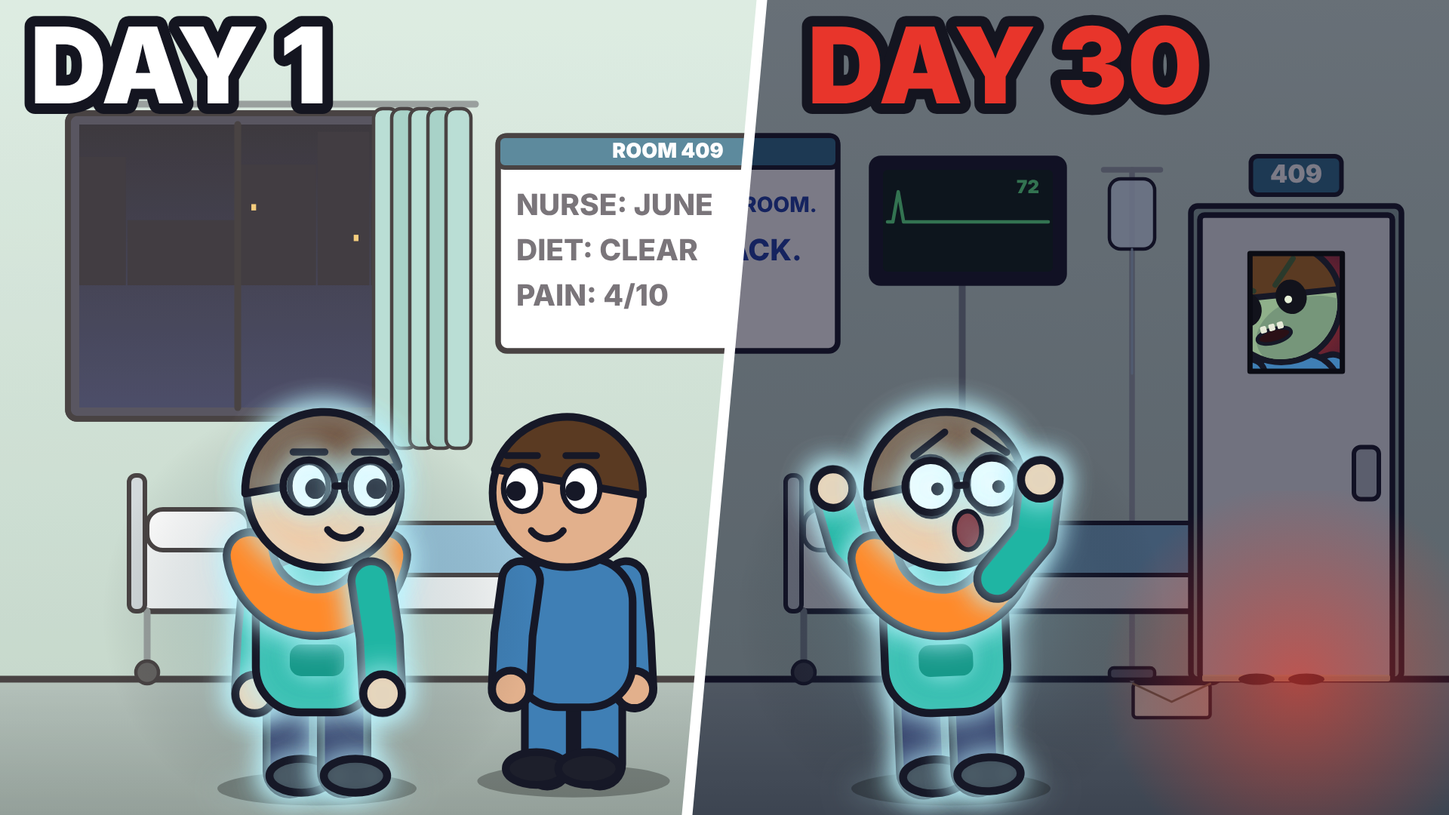
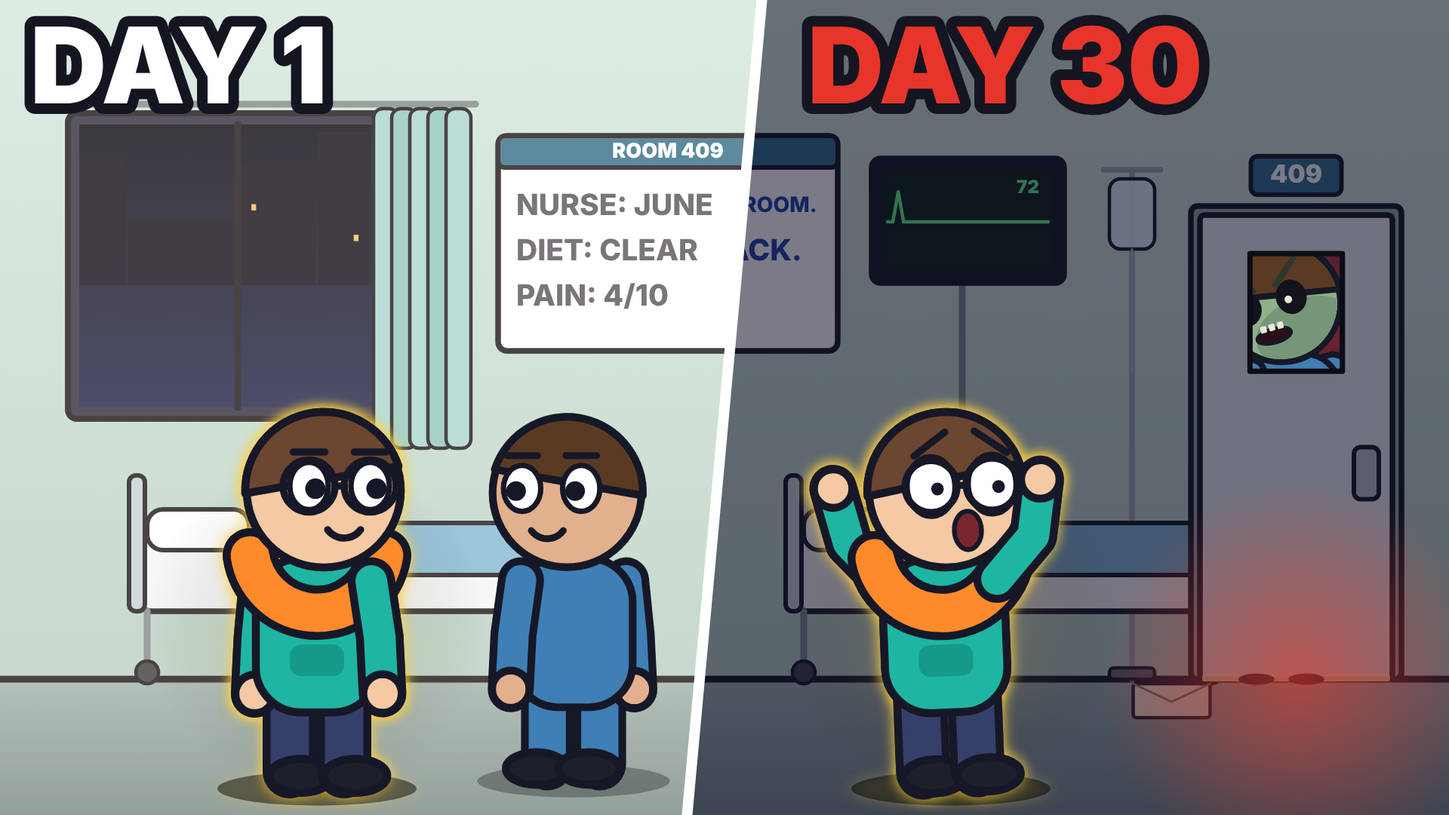
Hospital: faster scene changes, new locations, subtle yellow glow
Claude-Session: https://claude.ai/code/session_01A4fpXdABR4FHfhcdeu9ZkX

Changed region(s): [[0.5312, 0.4583, 0.75, 1.0], [0.125, 0.4583, 0.3125, 1.0]]

diff --git a/film9_src/ext9.js b/film9_src/ext9.js
@@ -35,16 +35,15 @@ BG.box = function (sh, t, lt) {
 LOOK.soldier = { skin: "#9a6a4a", top: "#4d5a3a", bot: "#3a4230", hair: "#1a1a1a", hs: "buzz" };
 LOOK.june = { skin: "#e2b08c", top: "#3f7fb5", bot: "#3f7fb5", hair: "#5a3a22", hs: "short" };
 LOOK.pilot = { skin: "#c08a64", top: "#4d5a3a", bot: "#3a4230", hair: "#1a1a1a", hs: "buzz" };
-// ---- hero glow ----
+// ---- hero glow: thin warm rim + faint halo ----
 (function () {
   var _ch = ch;
   ch = function (o) {
     if (o && o.k === "eli" && !o.noglow) {
       var s = o.s || 100;
-      ctx.save();
-      glow(o.x, o.y - s * 0.75, s * 0.95, "rgba(150,230,255,.55)", .55 + .12 * Math.sin(TT * 3));
-      ctx.shadowColor = "rgba(190,245,255,.95)"; ctx.shadowBlur = Math.max(10, s * 0.13);
-      _ch(o); ctx.restore(); return;
+      glow(o.x, o.y - s * 0.7, s * 0.75, "rgba(255,214,90,.22)", 1);
+      ctx.save(); ctx.shadowColor = "rgba(255,210,70,.95)"; ctx.shadowBlur = Math.max(6, s * 0.06); _ch(o); ctx.restore();
+      return _ch(o);
     }
     return _ch(o);
   };
@@ -150,4 +149,47 @@ BG.hroof = function (sh, t, lt) {
     tx("RESCUE", hx - 20, hy + 6, 22, "#c0392b");
   }
   return r;
+};
+
+BG.supply = function (sh, t, lt) {
+  var o = sh.o;
+  gr(0, 0, W, 600, "#c9d6d2", "#a9bab5"); gr(0, 600, W, 120, "#8d9c9a", "#66767a"); ln([0, 600, W, 600], 6, OUT);
+  rr(560, 20, 160, 16, 6, "#f8fbff", OUT, 3); glow(640, 60, 380, "rgba(255,255,230,.35)", o.dark ? .2 : 1);
+  for (var r = 0; r < 4; r++) { ln([40, 150 + r * 110, 420, 150 + r * 110], 8, "#7d8a90");
+    for (var b = 0; b < 4; b++) rr(56 + b * 90, 86 + r * 110, 74, 60, 4, ["#e8ddc4", "#cfe3f0", "#f2f2f2", "#d9c8a8"][(r + b) % 4], OUT, 3); }
+  rr(560, 230, 330, 370, 14, "#c4ccd2", OUT, 6); rr(560, 230, 330, 70, 10, "#a9b3ba", OUT, 5);
+  tx("ICE", 725, 266, 34, "#2f6f8f"); rr(600, 340, 250, 150, 10, "#8f9aa2", OUT, 5);
+  for (var i = 0; i < 14; i++) rr(612 + (i % 7) * 33, 420 + Math.floor(i / 7) * 32, 28, 26, 6, "rgba(220,245,255,.95)", "#7fb0c8", 2);
+  rr(980, 470, 120, 130, 10, "#e8c14a", OUT, 5); ln([980, 500, 1100, 500], 4, OUT);
+  if (o.drip) for (var d = 0; d < 3; d++) { var yy = 490 + ((t * 120 + d * 40) % 110); el(700 + d * 40, yy, 5, 8, "rgba(140,200,240,.9)"); }
+  return { gy: 686, s: 178 };
+};
+BG.stair = function (sh, t, lt) {
+  var o = sh.o;
+  gr(0, 0, W, H, "#b9c6c2", "#8e9c99");
+  for (var i = 0; i < 9; i++) { var x = 200 + i * 100, y = 640 - i * 62; rr(x, y, 120, 70, 0, "#9aa8a5", OUT, 4); }
+  ln([180, 560, 1080, 30], 8, "#d8b45a"); for (var i = 0; i < 9; i++) ln([240 + i * 100, 560 - i * 62 - 40, 240 + i * 100, 640 - i * 62], 4, "#d8b45a");
+  rr(40, 200, 160, 400, 6, "#e9eef0", OUT, 5); rr(80, 240, 80, 100, 4, "#1d2638", OUT, 4);
+  rr(60, 120, 120, 50, 6, "#2f6f8f", OUT, 4); tx("STAIR B", 120, 145, 22, "#ffffff");
+  rr(1120, 80, 110, 40, 6, "#1b7a3a", OUT, 3); tx("EXIT", 1175, 100, 22, "#ffffff"); glow(1175, 100, 160, "rgba(80,255,120,.3)", 1);
+  if (o.roofup) { glow(1100, 40, 300, "rgba(255,200,120,.5)", 1); }
+  return { gy: 686, s: 168 };
+};
+BG.dwin = function (sh, t, lt) {
+  var o = sh.o;
+  gr(0, 0, W, H, "#e3e8ea", "#c9d0d4");
+  for (var i = 0; i < 6; i++) ln([0, 80 + i * 120, W, 80 + i * 120], 2, "rgba(0,0,0,.05)");
+  var x = 400, y = 90, w = 480, h = 520;
+  rr(x - 22, y - 22, w + 44, h + 44, 10, "#b9c2c8", OUT, 8);
+  ctx.save(); ctx.beginPath(); ctx.rect(x, y, w, h); ctx.clip();
+  gr(x, y, w, h, o.dark ? "#26304a" : "#cfe4da", o.dark ? "#141a2c" : "#a9c3b8");
+  ln([x, y + h * 0.62, x + w, y + h * 0.62], 6, "#7fa3a0");
+  if (o.cart) { rr(x + 40, y + h * 0.55, 160, 200, 8, "#3f7fb5", OUT, 5); for (var d = 0; d < 3; d++) rr(x + 52, y + h * 0.58 + d * 40, 136, 30, 4, ["#e85a4f", "#f2c21a", "#5ad17a"][d], OUT, 3); }
+  if (o.who) ch({ k: o.who, x: x + w * 0.62, y: y + h + 330, s: 520, f: -1, noglow: 1, arm: o.knock ? "up" : null });
+  if (o.dark) { ctx.fillStyle = "rgba(8,10,30,.35)"; ctx.fillRect(x, y, w, h); }
+  ctx.fillStyle = "rgba(255,255,255,.08)"; ctx.beginPath(); ctx.moveTo(x, y); ctx.lineTo(x + 140, y); ctx.lineTo(x, y + 200); ctx.fill();
+  ctx.restore();
+  ln([x + w / 2, y, x + w / 2, y + h], 4, "rgba(40,40,60,.35)");
+  rr(x - 22, y - 22, w + 44, h + 44, 10, null, OUT, 8);
+  return { gy: 2000, s: 100 };
 };

diff --git a/film9_src/shots.py b/film9_src/shots.py
@@ -1,91 +1,112 @@
 S = []
 def s(tag, sp, bg, mood, text, **o):
-    o.setdefault('pre', .12)
+    o.setdefault('pre', .1)
     S.append(dict(day=tag, sp=sp, bg=bg, pal=mood, text=text, o=o))
 def nb(text, lines, **o):
-    s(o.pop('tag', ''), 'ELI', 'box', o.pop('mood', 'night'), text, lines=lines, **o)
+    s(o.pop('tag', ''), 'ELI', 'box', o.pop('mood', 'night'), text, lines=lines, head=o.pop('head', 'NURSE J'), **o)
+BRD = ['DO NOT LEAVE YOUR ROOM.','I WILL COME BACK FOR YOU.','— NURSE J']
 
 # ================= HOOK =================
 T = 'DAY 1 · 3:10 AM'
-s(T,'ELI','whall','night',"Hospital doors do not lock. Ever. If there is a fire, nobody can be trapped inside. Tonight, that is the problem.", a=['eli@640'], dark=.7, cam='in', gap=.15)
-s(T,'ELI','ward','night',"You wake up at three in the morning, in room four oh nine. Stitches in your stomach. A needle in your arm. And the call button does nothing.", a=['eli@620'], dark=.55, sfx=['ecg'], gap=.15)
-s(T,'ELI','whall','night',"Out in the hallway, somebody is pushing a cart. Squeak. Squeak.", dark=.7, cart=-100, cartv=160, sfx=['squeak'], gap=.15)
-s(T,'ELI','ward','night',"The squeak stops right outside your door. Under the door, two feet in white hospital shoes. They do not move. They do not knock. They just stand there.", a=['eli@620!'], dark=.55, feet=2, cam='in', gap=.15)
-s(T,'ELI','ward','night',"Then you notice the whiteboard by your bed. Somebody wrote on it while you were asleep.", a=['eli@620!'], dark=.4, board=['DO NOT LEAVE YOUR ROOM.','I WILL COME BACK FOR YOU.','— NURSE J'], gap=.15)
-s(T,'ELI','ward','night',"You will not leave this room for thirty days.", a=['eli@620'], dark=.55, board=['DO NOT LEAVE YOUR ROOM.','I WILL COME BACK FOR YOU.','— NURSE J'], cam='in', gap=.3)
+s(T,'ELI','whall','night',"Hospital doors do not lock. Ever.", a=['eli@640'], dark=.7, cam='in', gap=.1)
+s(T,'ELI','stair','night',"If there is a fire, nobody can be trapped inside. Tonight, that is the problem.", dark=.5, gap=.15)
+s(T,'ELI','ward','night',"You wake up at three in the morning, in room four oh nine. Stitches in your stomach.", a=['eli@620'], dark=.55, sfx=['ecg'], gap=.1)
+s(T,'ELI','winst','night',"Outside, the city is dark. And the street is full of people who are not moving right.", n=60, sfx=['moans'], gap=.1)
+s(T,'ELI','whall','night',"Out in the hallway, somebody is pushing a cart. Squeak. Squeak.", dark=.7, cart=-100, cartv=160, sfx=['squeak'], gap=.1)
+s(T,'ELI','ward','night',"The squeak stops outside your door. Under it, two feet in white shoes. They do not knock.", a=['eli@620!'], dark=.55, feet=2, cam='in', gap=.1)
+s(T,'ELI','dwin','night',"Through the little window, you can only see the empty hall. And the cart.", dark=1, cart=1, gap=.1)
+s(T,'ELI','ward','night',"Then you notice the whiteboard. Somebody wrote on it while you were asleep.", a=['eli@620!'], dark=.4, board=BRD, gap=.1)
+s(T,'ELI','box','night',"You will not leave this room for thirty days.", lines=['30 DAYS.','ROOM 409.'], head='MERCY GENERAL', cam='in', gap=.25)
 
 # ================= PROBLEM 1: THE DOOR =================
 T = 'DAY 1 · THE DOOR'
-s(T,'ELI','ward','night',"First problem, the door. There is no lock. Just a handle, and a door that swings in.", a=['eli@860'], dark=.5)
-s(T,'ELI','ward','night',"But hospital beds have brakes. Step on the pedal, and a four hundred pound bed will not roll an inch. You push it against the door, and lock every wheel.", a=['eli@300>>760'], dark=.5, bedx=760, sfx=['steps','slam'])
-nb("Hospital rule one. The brakes stay on.", ['RULE 1:','THE BRAKES STAY ON.'], tag=T)
+s(T,'ELI','dwin','night',"First problem, the door. There is no lock. Just a handle.", dark=1)
+s(T,'ELI','ward','night',"But hospital beds have brakes. Four hundred pounds that will not roll an inch.", a=['eli@300>>760'], dark=.5, bedx=760, sfx=['steps'])
+s(T,'ELI','ward','night',"You push the bed against the door. You lock every wheel.", a=['eli@560'], dark=.5, bedx=860, sfx=['slam'], cam='in')
+nb("Hospital rule one. The brakes stay on.", ['RULE 1:','THE BRAKES STAY ON.'], tag=T, head='ROOM 409')
 
 # ================= DAY 2 =================
 T = 'DAY 2 · 6:00 AM'
-s(T,'ELI','ward','dusk',"At six A M, the squeak comes back. The feet stop at your door. And something slides underneath it.", a=['eli@560!'], bedx=760, feet=2, envelope=1, sfx=['squeak'])
-nb("An envelope. On the front, two words.", ['DAY 2'], tag=T, head='NURSE J', mood='dusk')
-nb("Inside, a packet of crackers. And a note.", ['EAT SLOWLY.','DRINK FROM THE SINK','WHILE IT STILL RUNS.','— J'], tag=T, head='NURSE J', mood='dusk')
-s(T,'ELI','ward','dusk',"When you look under the door again, the feet are gone. The squeak goes all the way down the hall.", a=['eli@560'], bedx=760, sfx=['squeak'], cam='in', gap=.3)
+s(T,'ELI','whall','dusk',"At six A M, the squeak comes back.", cart=-60, cartv=140, sfx=['squeak'])
+s(T,'ELI','ward','dusk',"The feet stop at your door. And something slides underneath it.", a=['eli@560!'], bedx=760, feet=2, envelope=1)
+nb("An envelope. On the front, two words.", ['DAY 2'], tag=T, mood='dusk')
+nb("Inside, a packet of crackers, and a note.", ['EAT SLOWLY.','DRINK FROM THE SINK','WHILE IT STILL RUNS.','— J'], tag=T, mood='dusk')
+s(T,'ELI','whall','dusk',"When you look again, the feet are gone. The squeak goes all the way down the hall.", cart=500, cartv=160, sfx=['squeak'], gap=.25)
+
+# ================= DAY 6 =================
+s('DAY 6','ELI','ward','day',"You count the days on the whiteboard. Little lines, under her message.", a=['eli@620'], bedx=760, board=['DO NOT LEAVE YOUR ROOM.','— NURSE J','|||| |'])
+s('DAY 6','ELI','winst','day',"Every day, the street below gets a little more crowded.", n=90, sfx=['moans'])
+s('DAY 6','ELI','ward','night',"At night, you talk to the heart monitor. It is the only thing in here with a pulse besides you.", a=['eli@620'], bedx=760, dark=.5, sfx=['ecg'], cam='in', gap=.25)
 
 # ================= PROBLEM 2: WATER =================
 T = 'DAY 4 · WATER'
-s(T,'ELI','ward','night',"Second problem, water. On day four, the sink coughs, and stops.", a=['eli@560'], bedx=760, dark=.5, sfx=['drip'])
-s('DAY 5 · 6:00 AM','ELI','ward','dusk',"Six A M. The squeak. The envelope.", a=['eli@560'], bedx=760, feet=2, envelope=1, sfx=['squeak'])
-nb("Ice machine. Room four twelve. Ice is water.", ['DAY 5','ICE MACHINE. ROOM 412.','ICE IS WATER.','— J'], tag='DAY 5', head='NURSE J', mood='dusk')
-s('DAY 5 · 12:00 PM','ELI','whall','day',"Room four twelve is a supply room, three doors down. Inside, an ice machine. Two hundred pounds of ice, melting slowly in the dark. Enough water for weeks.", a=['eli@200>>900'], nums=['409','410','411','412'], sfx=['steps'])
-nb("Hospital rule two. Ice is water.", ['RULE 2:','ICE IS WATER.'], tag='DAY 5')
+s('DAY 8 · WATER','ELI','ward','night',"Second problem, water. On day eight, the sink coughs, and stops.", a=['eli@560'], bedx=760, dark=.5, sfx=['drip'])
+nb("Six A M. The squeak. The envelope.", ['DAY 8','ICE MACHINE. ROOM 412.','ICE IS WATER.','— J'], tag='DAY 8', mood='dusk')
+s('DAY 8 · 12:00 PM','ELI','whall','day',"Room four twelve is three doors down. You go at noon, when the hall is quiet.", a=['eli@200>>900'], nums=['409','410','411','412'], sfx=['steps'])
+s('DAY 8 · 12:01 PM','ELI','supply','day',"Inside, an ice machine. Two hundred pounds of ice, melting slowly in the dark.", a=['eli@360'], drip=1)
+s('DAY 8 · 12:02 PM','ELI','supply','day',"Enough water for weeks. You fill two buckets, and run.", a=['eli@400>>1100'], drip=1, sfx=['steps'], cam='in')
+nb("Hospital rule two. Ice is water.", ['RULE 2:','ICE IS WATER.'], tag='DAY 8', head='ROOM 409')
 
-s('DAY 6','ELI','ward','day',"You start counting days on the whiteboard. Little lines, under her message. Ice in the morning. Crackers at noon. Envelope at six. A whole life, in one room.", a=['eli@620'], bedx=760, board=['DO NOT LEAVE YOUR ROOM.','— NURSE J','|||| |'])
-s('DAY 6','ELI','ward','night',"At night, you talk to the heart monitor. It is the only thing in the room with a pulse besides you.", a=['eli@620'], bedx=760, dark=.5, sfx=['ecg'], cam='in', gap=.3)
 # ================= PROBLEM 3: THE STITCHES =================
 T = 'DAY 9 · THE STITCHES'
-s(T,'ELI','ward','day',"Third problem. On day nine, your stitches turn red. Hot. Your whole body aches.", a=['eli@560!'], bedx=760, sfx=['ecg'])
-nb("The next envelope already knows.", ['DAY 9','RED STITCHES?','NURSES STATION, TOP DRAWER.','FOLLOW THE LABEL.','— J'], tag=T, head='NURSE J', mood='day')
-s(T,'ELI','ward','day',"You stare at it for a long time. How did she know?", a=['eli@560'], bedx=760, cam='in')
-s('DAY 9 · 12:00 PM','ELI','nstation','day',"The nurses station is at the end of the hall. You go at noon, when the hall is quiet. Top drawer. A bottle of antibiotics, with your name already on the label.", a=['eli@760'], drawer=1)
-s('DAY 9 · 12:01 PM','ELI','nstation','day',"Your name. In her handwriting.", a=['eli@760!'], drawer=1, cam='in', gap=.3)
+s(T,'ELI','ward','day',"Third problem. On day nine, your stitches turn red. Hot. Everything aches.", a=['eli@560!'], bedx=760, sfx=['ecg'])
+nb("The next envelope already knows.", ['DAY 9','RED STITCHES?','NURSES STATION, TOP DRAWER.','FOLLOW THE LABEL.'], tag=T, mood='day')
+s('DAY 9 · 12:00 PM','ELI','whall','day',"The nurses station is at the end of the hall. Every step pulls at your stitches.", a=['eli@200>>800'], nums=['405','406','407','408'], sfx=['steps'])
+s('DAY 9 · 12:01 PM','ELI','nstation','day',"Top drawer. A bottle of antibiotics, with your name already on the label.", a=['eli@760'], drawer=1)
+s('DAY 9 · 12:01 PM','ELI','nstation','day',"Your name. In her handwriting.", a=['eli@760!'], drawer=1, cam='in', gap=.25)
 s('DAY 12','ELI','ward','day',"Three days later, the redness is gone.", a=['eli@560'], bedx=760)
 
-# ================= THE NIGHT THE POWER CAME BACK =================
+# ================= THE POWER =================
 s('DAY 13 · 2:00 AM','ELI','ward','night',"On day thirteen, at two in the morning, the power comes back. For ten seconds.", a=['eli@560!'], bedx=760, dark=.2, sfx=['alarm','ecg'], shake=1)
-s('DAY 13 · 2:00 AM','ELI','whall','night',"Every call light. Every heart monitor. Every alarm on the fourth floor, screaming at once. Then darkness again.", z=8, zm=40, zr=[0,900], dark=.3, sfx=['alarm','moans'], shake=1)
-s('DAY 13 · 2:01 AM','ELI','ward','night',"And then they are at your door. Not one. Dozens. Pushing.", a=['eli@560!'], bedx=760, dark=.6, feet=6, sfx=['slam','growl','knock'], shake=1)
-s('DAY 13 · 2:02 AM','ELI','ward','night',"The door bends. The bed shakes. But the wheels do not move one inch. Rule one. The brakes stay on.", a=['eli@560!'], bedx=760, dark=.6, feet=6, sfx=['slam'], shake=1, cam='in')
-s('DAY 13 · 6:00 AM','ELI','ward','dusk',"By morning, they drift away. At six, the squeak comes back, like nothing happened.", a=['eli@560'], bedx=760, feet=2, envelope=1, sfx=['squeak'], gap=.3)
-# ================= THE CART =================
-T = 'DAY 16 · 6:00 AM'
-s(T,'ELI','ward','dusk',"Every morning at six, the squeak. Every morning, an envelope. Day fourteen. Day fifteen. Day sixteen.", a=['eli@560'], bedx=760, feet=2, envelope=1, sfx=['squeak'])
-nb("Then one that scares you.", ['DAY 16',"DON'T OPEN THE DOOR",'WHEN THE CART STOPS.','NOT EVEN FOR ME.','— J'], tag=T, head='NURSE J', mood='dusk')
-s(T,'ELI','ward','dusk',"You start to wonder why she never knocks. Why she never says your name.", a=['eli@560'], bedx=760, cam='in')
-s('DAY 17 · 5:59 AM','ELI','whall','dusk',"On day seventeen, you are awake at six. You look through the little window in your door.", dark=.4, cart=380)
-s('DAY 17 · 6:00 AM','ELI','whall','dusk',"A nurse in blue scrubs. Gray skin. Hair in a bun. Pushing a medicine cart, one door at a time, the way she has done every morning for twenty years.", a=['zjune@560'], dark=.4, cart=380, cartv=20, sfx=['squeak','moans'], cam='in')
-s('DAY 17 · 6:01 AM','ELI','ward','dusk',"She stops at your door. She reaches into the cart. And she slides an envelope underneath.", a=['eli@560!'], bedx=760, feet=2, envelope=1)
-s('DAY 17 · 6:01 AM','ELI','ward','dusk',"She does not know why she does it. She just does.", a=['eli@560!'], bedx=760, cam='in', gap=.4)
+s('DAY 13 · 2:00 AM','ELI','nstation','night',"Every call light. Every monitor. Every alarm on the floor, screaming at once.", dark=.2, sfx=['alarm'], shake=1)
+s('DAY 13 · 2:00 AM','ELI','winst','night',"Down in the street, a thousand heads turn toward the hospital.", n=110, turn=1, beam=1, sfx=['moans'], cam='in')
+s('DAY 13 · 2:01 AM','ELI','whall','night',"Then they are at your door. Not one. Dozens.", z=8, zm=40, zr=[0,900], dark=.4, sfx=['growl'], shake=1)
+s('DAY 13 · 2:01 AM','ELI','ward','night',"The door bends. The bed shakes. The wheels do not move.", a=['eli@560!'], bedx=860, dark=.6, feet=6, sfx=['slam','knock'], shake=1)
+s('DAY 13 · 2:02 AM','ELI','box','night',"Rule one. The brakes stay on.", lines=['THE BRAKES','STAY ON.'], head='ROOM 409', gap=.25)
 
-s('DAY 19 · 4:00 PM','ELI','ward','day',"On day nineteen, a helicopter flies over the city. Low and loud. You bang on the window until your hands hurt. It does not turn.", a=['eli@300^'], bedx=760, sfx=['engine','knock'])
-s('DAY 20 · 6:00 AM','ELI','ward','dusk',"The next envelope has two words.", a=['eli@560'], bedx=760, feet=2, envelope=1, sfx=['squeak'])
-nb("Not yet.", ['DAY 20','NOT YET.','— J'], tag='DAY 20', head='NURSE J', mood='dusk', gap=.3)
-s('DAY 22','ELI','ward','day',"On day twenty two, you finally do something. You write a note of your own. Who are you? Why don't you knock? You slide it under the door, onto the cart.", a=['eli@760^'], bedx=900, sfx=['whoosh'])
-s('DAY 23 · 6:00 AM','ELI','ward','dusk',"The next morning, the envelope is waiting. Like always.", a=['eli@560'], bedx=760, feet=2, envelope=1, sfx=['squeak'])
-nb("I know you want to know who I am. Please don't look. Just eat. J.", ['DAY 23','I KNOW YOU WANT TO KNOW','WHO I AM.',"PLEASE DON'T LOOK. JUST EAT."], tag='DAY 23', head='NURSE J', mood='dusk')
-s('DAY 23','ELI','ward','dusk',"She answered a question you asked yesterday. In an envelope that was already sealed.", a=['eli@560!'], bedx=760, cam='in', gap=.4)
+# ================= THE CART =================
+s('DAY 16 · 6:00 AM','ELI','ward','dusk',"Every morning at six, the squeak. Every morning, an envelope.", a=['eli@560'], bedx=760, feet=2, envelope=1, sfx=['squeak'])
+nb("Then one that scares you.", ['DAY 16',"DON'T OPEN THE DOOR",'WHEN THE CART STOPS.','NOT EVEN FOR ME.'], tag='DAY 16', mood='dusk')
+s('DAY 16','ELI','ward','dusk',"Why does she never knock? Why does she never say your name?", a=['eli@560'], bedx=760, cam='in')
+s('DAY 17 · 5:59 AM','ELI','ward','dusk',"On day seventeen, you are awake at six. You climb onto the bed, to the little window.", a=['eli@760^'], bedx=860)
+s('DAY 17 · 6:00 AM','ELI','dwin','dusk',"A nurse in blue scrubs. Gray skin. Hair in a bun.", who='zjune', cart=1, sfx=['squeak','sting'], cam='in')
+s('DAY 17 · 6:00 AM','ELI','whall','dusk',"Pushing a medicine cart, one door at a time, the way she has every morning for twenty years.", a=['zjune@560'], cart=380, cartv=20, sfx=['squeak','moans'])
+s('DAY 17 · 6:01 AM','ELI','ward','dusk',"She stops at your door. She reaches into the cart. And an envelope slides underneath.", a=['eli@560!'], bedx=760, feet=2, envelope=1)
+s('DAY 17 · 6:01 AM','ELI','dwin','dusk',"She does not know why she does it. She just does.", who='zjune', cart=1, gap=.3)
+
+# ================= THE HELICOPTER =================
+s('DAY 19 · 4:00 PM','ELI','winst','day',"On day nineteen, a helicopter flies over the city. Low and loud.", n=80, sfx=['engine'])
+s('DAY 19 · 4:00 PM','ELI','ward','day',"You bang on the window until your hands hurt. It does not turn.", a=['eli@300^'], bedx=760, sfx=['knock'], shake=1)
+nb("The next envelope has two words.", ['DAY 20','NOT YET.'], tag='DAY 20', mood='dusk', gap=.25)
+
+# ================= THE REPLY =================
+s('DAY 22','ELI','ward','day',"On day twenty two, you write back. Who are you? Why don't you knock?", a=['eli@560'], bedx=760, board=['WHO ARE YOU?',"WHY DON'T YOU KNOCK?",'— 409'])
+s('DAY 22','ELI','dwin','day',"You slide it under the door, onto the cart.", cart=1, sfx=['whoosh'])
+nb("The next morning, the envelope is waiting.", ['DAY 23','I KNOW YOU WANT TO KNOW','WHO I AM.',"PLEASE DON'T LOOK."], tag='DAY 23', mood='dusk')
+s('DAY 23','ELI','ward','dusk',"She answered your question. In an envelope that was already sealed.", a=['eli@560!'], bedx=760, cam='in', gap=.3)
+
 # ================= PROBLEM 4: THE ROOF =================
-T = 'DAY 28 · THE ROOF'
-nb("On day twenty eight, the envelope is thicker.", ['DAY 28','HELICOPTER. ROOF.','DAY 30, 7 AM.','TAKE THE STAIRS AT 6,','WHILE I DO MY ROUNDS.'], tag=T, head='NURSE J', mood='day')
-s(T,'ELI','whall','day',"Fourth problem. The stairs are at the end of the hall, past every room on the fourth floor. And the fourth floor is full.", a=['eli@1000!'], z=6, zm=0, zr=[80,800], sfx=['moans'])
-s(T,'ELI','whall','day',"Patients. Visitors. A man in a hospital gown who has been walking into the same wall since day three.", z=7, zm=5, zr=[60,1100], cam='in')
-s(T,'ELI','ward','night',"You cannot get past them. Not alone.", a=['eli@560'], bedx=760, dark=.5, gap=.3)
+nb("On day twenty eight, the envelope is thicker.", ['DAY 28','HELICOPTER. ROOF.','DAY 30, 7 AM.','TAKE THE STAIRS AT 6.'], tag='DAY 28', mood='day')
+s('DAY 28 · THE ROOF','ELI','stair','day',"Fourth problem. The stairs are at the end of the hall.", sfx=['steps'])
+s('DAY 28 · THE ROOF','ELI','whall','day',"And the hall is full. Patients. Visitors. A man who has walked into the same wall since day three.", a=['eli@1000!'], z=7, zm=5, zr=[60,860], sfx=['moans'])
+s('DAY 28','ELI','ward','night',"You cannot get past them. Not alone.", a=['eli@560'], bedx=760, dark=.5, gap=.3)
 
 # ================= DAY 30 =================
-s('DAY 30 · 6:00 AM','ELI','ward','dusk',"Day thirty. Six A M. You put on real clothes for the first time in a month. Then you hear it. Squeak.", a=['eli@560'], bedx=760, sfx=['squeak'])
-s('DAY 30 · 6:01 AM','ELI','whall','dusk',"The cart rolls past room four oh one. Four oh two. And every one of them in the hall turns, and shuffles after the squeak. Like they always do.", a=['zjune@700'], cart=860, cartv=120, z=6, zm=90, zr=[0,600], sfx=['squeak','moans'])
-s('DAY 30 · 6:03 AM','ELI','whall','dusk',"The west hall is empty. The stairwell door is open.", a=['eli@200>>1100'], nums=['413','414','415','416'], sfx=['steps'])
-s('DAY 30 · 6:04 AM','ELI','whall','dusk',"Taped to the stairwell door is one last envelope.", a=['eli@1000'], nums=['413','414','415','416'], cam='in')
-nb("Day thirty. I wrote all thirty of these on day one.", ['DAY 30','I WROTE ALL THIRTY','ON DAY ONE.'], tag='DAY 30', head='NURSE J', mood='dusk')
-nb("I knew I would forget you. I knew I would still do my rounds.", ['I KNEW I WOULD FORGET YOU.','I KNEW I WOULD STILL','DO MY ROUNDS.'], tag='DAY 30', head='NURSE J', mood='dusk')
-nb("Go home. June.", ['GO HOME.','— JUNE'], tag='DAY 30', head='NURSE J', mood='dusk', gap=.5)
-s('DAY 30 · 7:00 AM','ELI','hroof','dusk',"On the roof, a helicopter is coming down. The pilot is waving. You climb in.", a=['eli@420^'], heli=1, sfx=['engine'])
-s('DAY 30 · 7:02 AM','ELI','whall','dusk',"Below you, through the windows of the fourth floor, you can see her. Blue scrubs. A medicine cart. Room four ten. Four eleven. Four twelve.", a=['zjune@600'], cart=760, cartv=30, sfx=['squeak'], cam='in')
-s('DAY 30','ELI','ward','dusk',"She wrote thirty envelopes on the day she was bitten. She knew she would forget your name. She knew she would never forget her rounds.", nobed=1, board=['DO NOT LEAVE YOUR ROOM.','I WILL COME BACK FOR YOU.','— NURSE J'], gap=.3)
-nb("Inventory. One envelope. Thirty days. Three hospital rules. The brakes stay on. Ice is water. And the new one. Some promises outlive the people who make them.", ['THE BRAKES STAY ON.','ICE IS WATER.','SOME PROMISES','OUTLIVE US.'], tag='DAY 30', mood='dusk')
+s('DAY 30 · 6:00 AM','ELI','ward','dusk',"Day thirty. Six A M. Real clothes, for the first time in a month.", a=['eli@560'], bedx=760)
+s('DAY 30 · 6:00 AM','ELI','dwin','dusk',"Then you hear it. Squeak.", who='zjune', cart=1, sfx=['squeak'])
+s('DAY 30 · 6:01 AM','ELI','whall','dusk',"Every one of them in the hall turns toward the squeak.", a=['zjune@700'], cart=860, cartv=120, z=6, zm=90, zr=[0,600], sfx=['squeak','moans'])
+s('DAY 30 · 6:02 AM','ELI','dwin','dusk',"And they shuffle after her. Like they always do.", who='zpax', dark=1)
+s('DAY 30 · 6:03 AM','ELI','whall','dusk',"The west hall is empty.", a=['eli@200>>1100'], nums=['413','414','415','416'], sfx=['steps'])
+s('DAY 30 · 6:04 AM','ELI','stair','dusk',"Taped to the stairwell door is one last envelope.", a=['eli@300'])
+nb("I wrote all thirty of these on day one.", ['DAY 30','I WROTE ALL THIRTY','ON DAY ONE.'], tag='DAY 30', mood='dusk')
+nb("I knew I would forget you. I knew I would still do my rounds.", ['I KNEW I WOULD FORGET YOU.','I KNEW I WOULD STILL','DO MY ROUNDS.'], tag='DAY 30', mood='dusk')
+nb("Go home. June.", ['GO HOME.','— JUNE'], tag='DAY 30', mood='dusk', gap=.4)
+s('DAY 30 · 6:58 AM','ELI','stair','dusk',"Nine floors. You do not stop once.", a=['eli@300>>1000'], roofup=1, sfx=['steps'])
+s('DAY 30 · 7:00 AM','ELI','hroof','dusk',"On the roof, a helicopter is coming down. The pilot is waving.", a=['eli@420^'], heli=1, sfx=['engine'])
+s('DAY 30 · 7:02 AM','ELI','winst','dusk',"From the air, the whole city is gray and still.", n=60, roofview=1, cam='out')
+s('DAY 30 · 7:02 AM','ELI','whall','dusk',"And through the fourth floor windows, you can see her.", a=['zjune@600'], cart=760, cartv=30, sfx=['squeak'])
+s('DAY 30 · 7:02 AM','ELI','dwin','dusk',"Blue scrubs. A medicine cart. Room four ten. Four eleven.", who='zjune', cart=1)
+s('DAY 30','ELI','ward','dusk',"She wrote thirty envelopes on the day she was bitten.", nobed=1, board=BRD)
+s('DAY 30','ELI','dwin','dusk',"She knew she would forget your name. She knew she would never forget her rounds.", who='zjune', cart=1, gap=.3)
+nb("Some promises outlive the people who make them.", ['THE BRAKES STAY ON.','ICE IS WATER.','SOME PROMISES','OUTLIVE US.'], tag='DAY 30', mood='dusk', head='ROOM 409')
 s('DAY 30','ELI','whall','dusk',"Hospital doors do not lock. She never needed them to.", a=['zjune@640'], cart=820, cartv=12, dark=.4, cam='in', sfx=['squeak'], gap=1.6)
